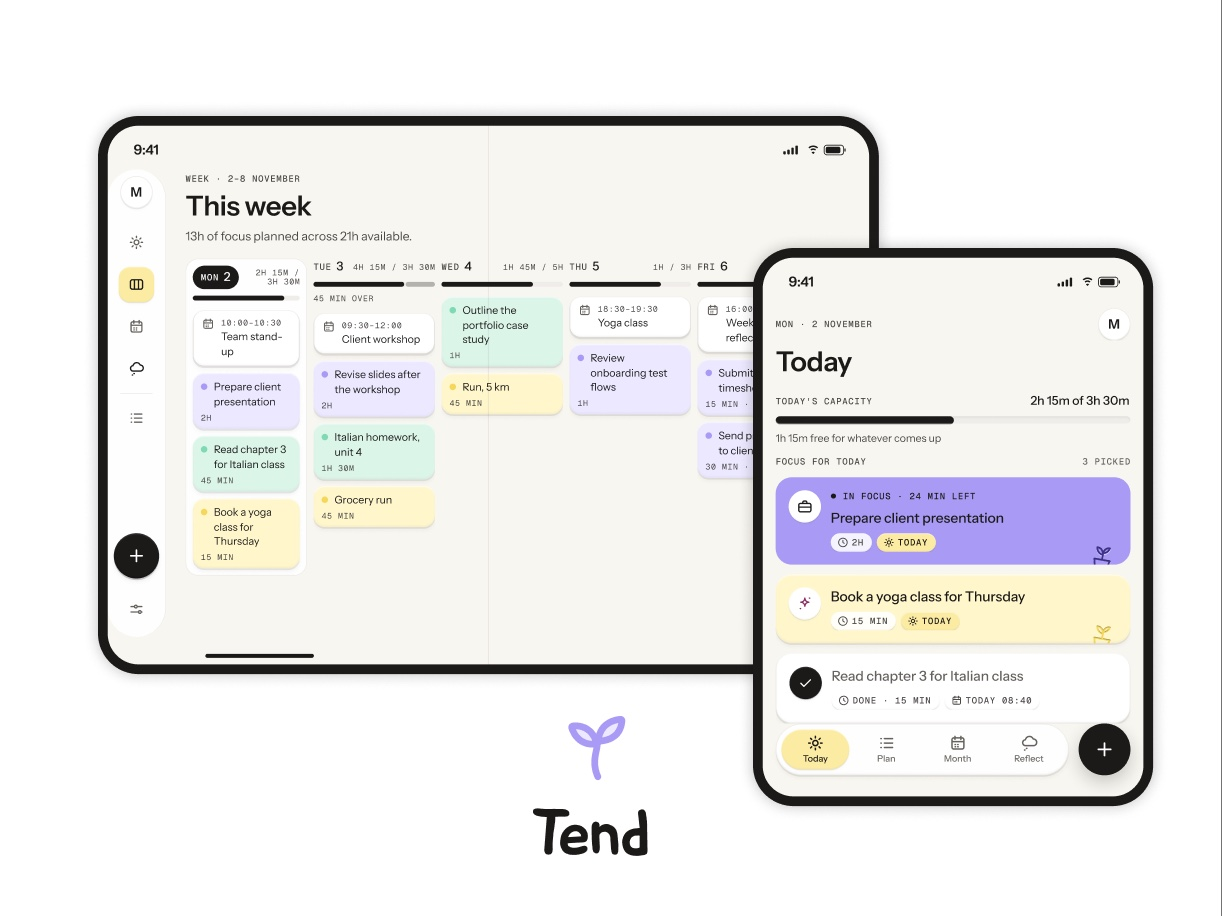
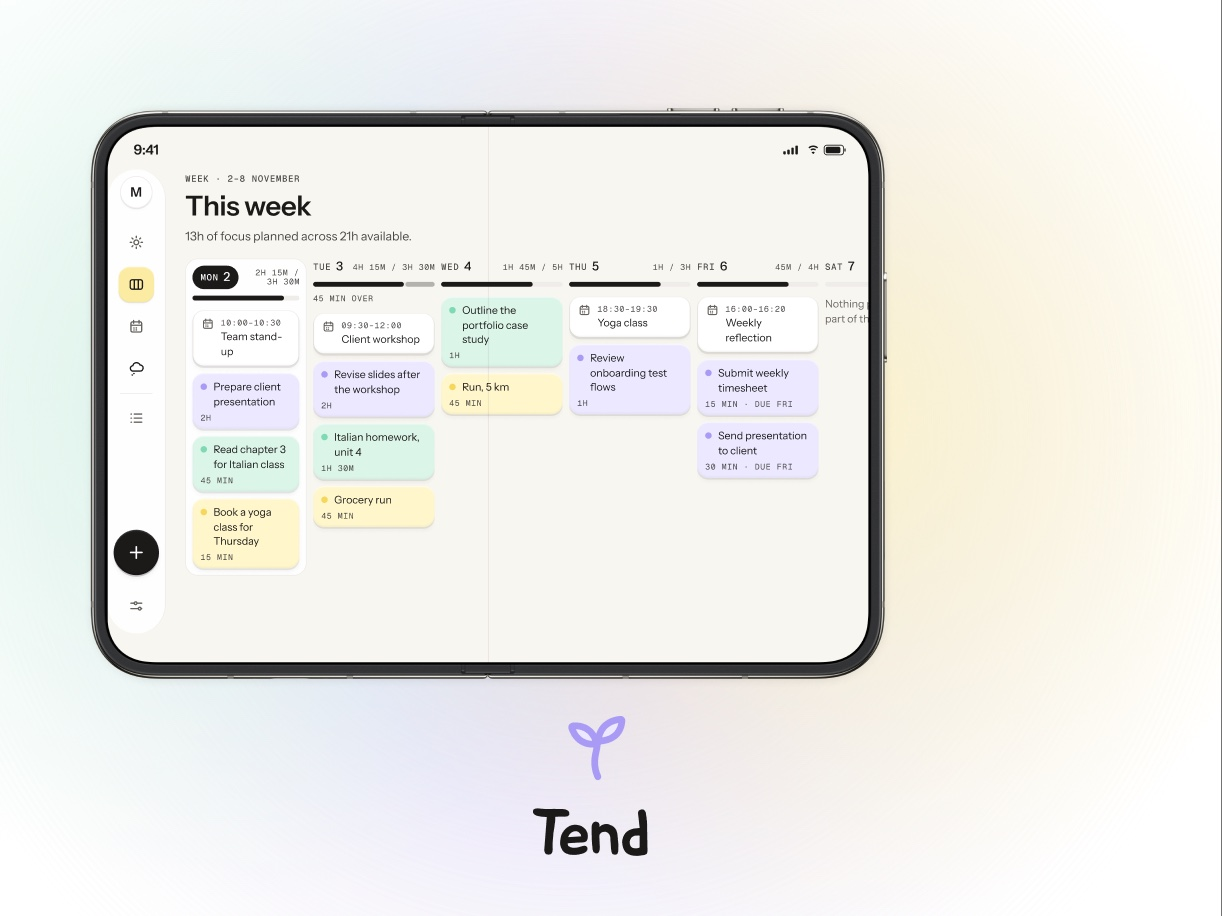
Tend cover: the open fold in its hardware frame, no phone
Swaps in the new Figma cover (node 27:3667): the fold and its frame as one
2x layer over the same drifting glows, with the swaying sprout.

diff --git a/src/components/Covers/TendDevices.tsx b/src/components/Covers/TendDevices.tsx
@@ -1,18 +1,18 @@
 import { useEffect, useId, useRef, useState } from 'react'
 
-/** Drawn in the Figma cover's own frame, 1221×916 ("Cover", node 20:2744 in
+/** Drawn in the Figma cover's own frame, 1221×916 ("Cover", node 27:3667 in
  *  Designbymeysa), so every position below reads straight off the design file. The
- *  devices and the logo are exported at 2x on transparency, drop shadows included —
- *  which is why each image starts ~16px up and left of its device's frame — and the
- *  ground and its glows are drawn here so they can move. */
+ *  open fold in its hardware frame and the logo are exported at 2x on transparency,
+ *  drop shadow and side buttons included — which is why the fold's image starts 30px
+ *  up and left of the device — and the ground and its glows are drawn here so they
+ *  can move. */
 const MEDIA = '/media/tend/cover'
 const W = 1221.32
 const H = 916
 // how far the cover zooms out: room added each side, in the frame's own units
 const PAD = 70
 
-const FOLD = { x: 81.7, y: 99.8, w: 813.5, h: 590.5 }
-const PHONE = { x: 736.7, y: 231.8, w: 433, h: 590.5 }
+const FOLD = { x: 68, y: 86, w: 841, h: 618 }
 const LOGO = { x: 532, y: 703, w: 130.5, h: 155 }
 // the sprout sits in the logo's top 95px, the wordmark under it; the sprout sways from
 // the foot of its stem
@@ -27,8 +27,8 @@ const GLOWS = [
   { key: 'lilac', cx: 572, cy: 443, r: 695, color: '#A99BF5', alpha: 0.5, cls: 'tn-glow-c' },
 ]
 
-/** The cover for Tend: the open fold and the phone float out of step over a soft
- *  pastel wash whose three glows drift slowly, and the sprout in the logo sways.
+/** The cover for Tend: the open fold floats over a soft pastel wash whose three glows
+ *  drift slowly, and the sprout in the logo sways.
  *
  *  Everything moves only while the cover is on screen — `tn-on` is what starts the
  *  animations — and under reduced motion it all holds still. */
@@ -80,7 +80,6 @@ export function TendDevices({ className = '' }: { className?: string; bare?: boo
           <image href={`${MEDIA}/fold.png`} x={FOLD.x} y={FOLD.y} width={FOLD.w} height={FOLD.h} />
         </g>
 
-        {/* the logo sits under the phone, as in Figma */}
         <image
           href={`${MEDIA}/sprout.png`}
           x={LOGO.x} y={LOGO.y} width={LOGO.w} height={LOGO.h}
@@ -92,10 +91,6 @@ export function TendDevices({ className = '' }: { className?: string; bare?: boo
             x={LOGO.x} y={LOGO.y} width={LOGO.w} height={LOGO.h}
             clipPath={`url(#tn-mark-${id})`}
           />
-        </g>
-
-        <g className="tn-float tn-float-b">
-          <image href={`${MEDIA}/phone.png`} x={PHONE.x} y={PHONE.y} width={PHONE.w} height={PHONE.h} />
         </g>
       </svg>
     </div>

diff --git a/src/styles/globals.css b/src/styles/globals.css
@@ -517,7 +517,7 @@
   .dm-on .dm-orb, .dm-on .dm-float-a, .dm-on .dm-float-b { animation: none; }
 }
 
-/* The Tend cover. The fold and the phone float out of step, the three pastel glows
+/* The Tend cover. The open fold floats, the three pastel glows
    behind them drift on their own slow loops, and the sprout sways from the foot of its
    stem — all only once the cover's wrapper has `tn-on`, which it takes while on screen.
    The sprout's transform-origin is set inline, in the SVG's own units. */
@@ -529,7 +529,6 @@
 .tn-sprout { transform-box: view-box; }
 
 .tn-on .tn-float-a { animation: tn-float 8s ease-in-out infinite; }
-.tn-on .tn-float-b { animation: tn-float 8s ease-in-out -4s infinite; }
 .tn-on .tn-glow-a  { animation: tn-drift-a 16s ease-in-out infinite; }
 .tn-on .tn-glow-b  { animation: tn-drift-b 19s ease-in-out infinite; }
 .tn-on .tn-glow-c  { animation: tn-breathe 12s ease-in-out infinite; }
@@ -556,7 +555,7 @@
   50%      { transform: rotate(4deg); }
 }
 @media (prefers-reduced-motion: reduce) {
-  .tn-on .tn-float-a, .tn-on .tn-float-b,
+  .tn-on .tn-float-a,
   .tn-on .tn-glow-a, .tn-on .tn-glow-b, .tn-on .tn-glow-c,
   .tn-on .tn-sprout { animation: none; }
 }
